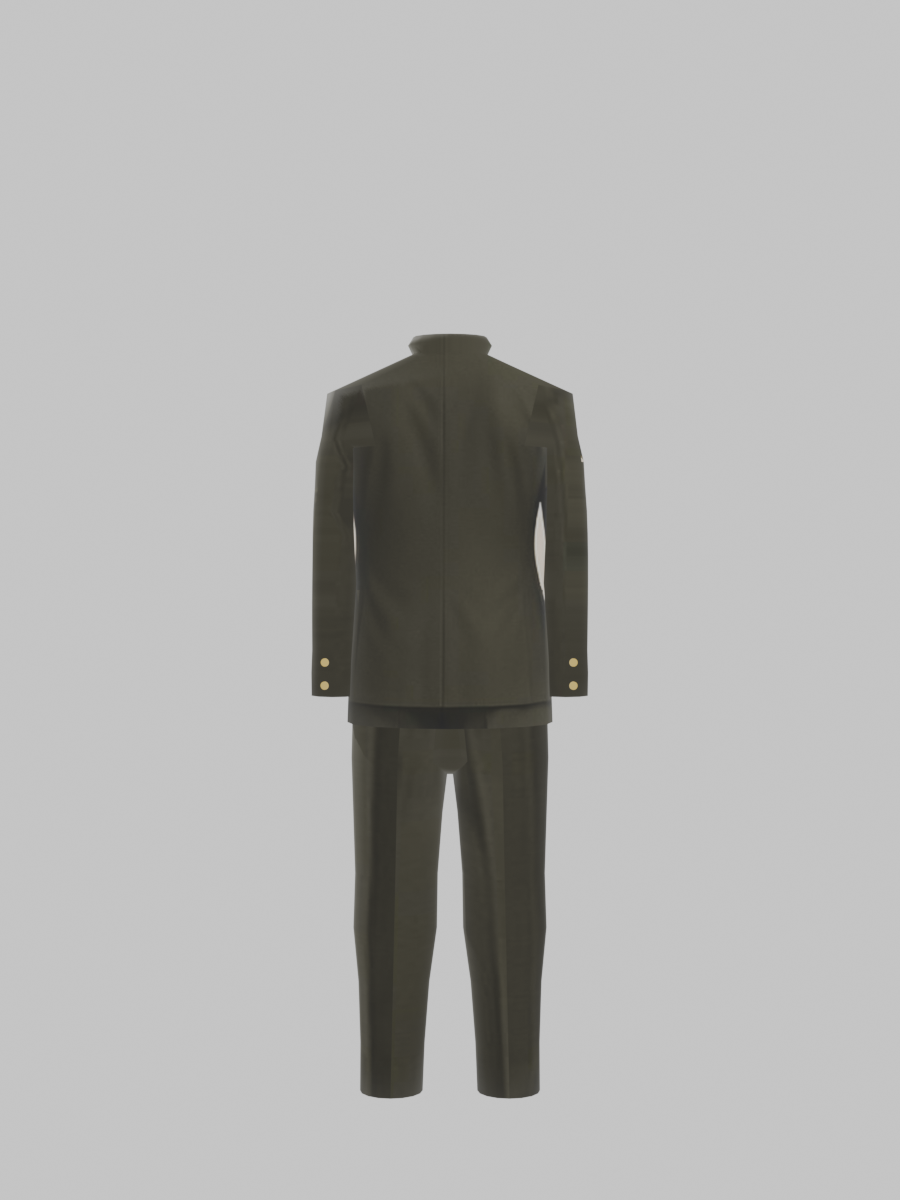
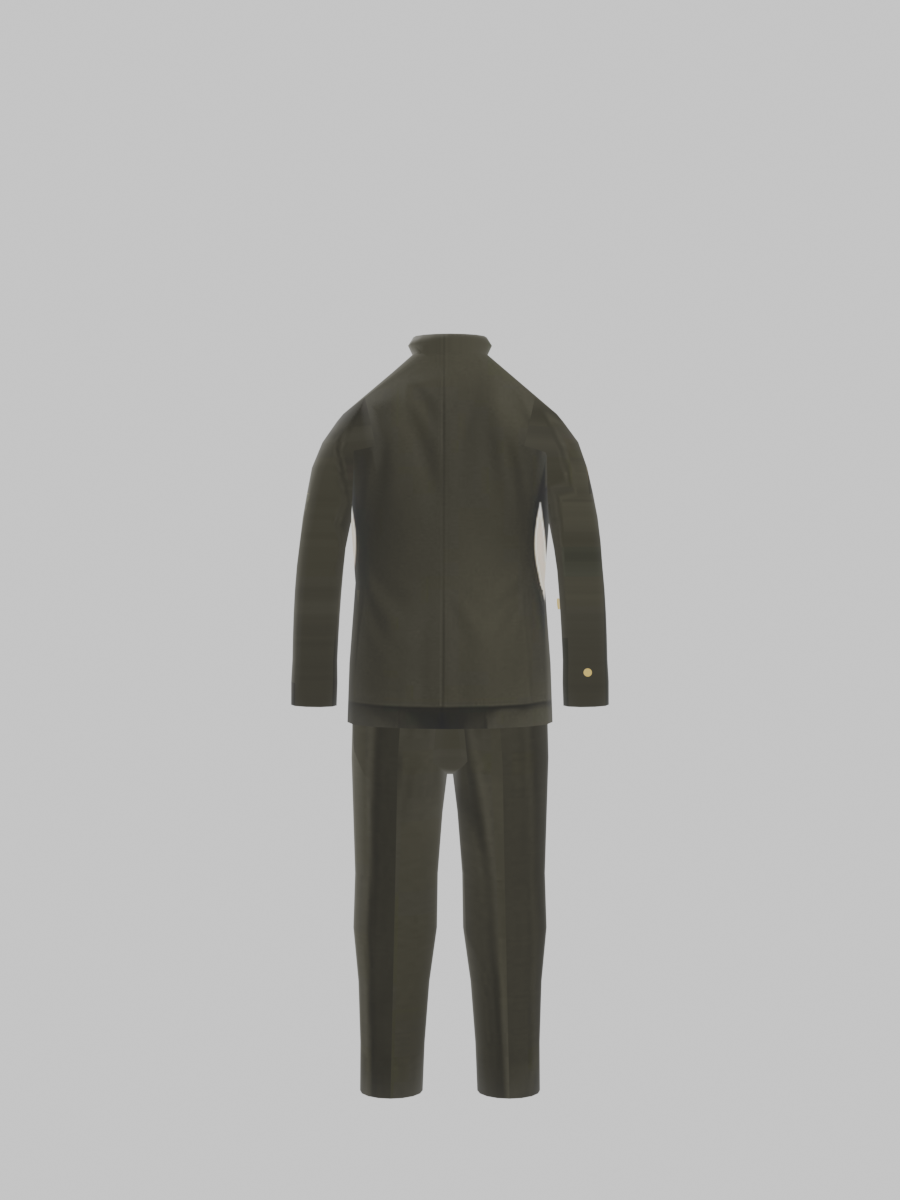
Abre los brazos del PONAL #3 y redondea el hombro para que no corte en escuadra.

Changed region(s): [[0.3111, 0.3083, 0.4356, 0.6167], [0.56, 0.3083, 0.6844, 0.5858], [0.4356, 0.2775, 0.4667, 0.3083]]

diff --git a/modelos/prueba/index.html b/modelos/prueba/index.html
@@ -21,34 +21,34 @@
   <main>
     <h1>PONAL #3, prueba</h1>
     <p>Arrastre el modelo para verlo por todos los lados. La primera imagen compara la fotografía con el frente, el lateral, la espalda y los tres cuartos.</p>
-    <model-viewer src="ponal-3.glb?v=5" camera-controls touch-action="pan-y" shadow-intensity="0.35" exposure="1.05" alt="Uniforme PONAL #3 de prueba"></model-viewer>
+    <model-viewer src="ponal-3.glb?v=6" camera-controls touch-action="pan-y" shadow-intensity="0.35" exposure="1.05" alt="Uniforme PONAL #3 de prueba"></model-viewer>
     <div class="vistas">
       <figure>
-        <img src="vistas/comparacion.png?v=5" alt="Comparación del uniforme PONAL #3 con la fotografía original">
+        <img src="vistas/comparacion.png?v=6" alt="Comparación del uniforme PONAL #3 con la fotografía original">
         <figcaption>Comparación con la fotografía</figcaption>
       </figure>
       <figure>
-        <img src="vistas/frente.png?v=5" alt="Frente del uniforme PONAL #3">
+        <img src="vistas/frente.png?v=6" alt="Frente del uniforme PONAL #3">
         <figcaption>Frente</figcaption>
       </figure>
       <figure>
-        <img src="vistas/espalda.png?v=5" alt="Espalda del uniforme PONAL #3">
+        <img src="vistas/espalda.png?v=6" alt="Espalda del uniforme PONAL #3">
         <figcaption>Espalda</figcaption>
       </figure>
       <figure>
-        <img src="vistas/perfil-izquierdo.png?v=5" alt="Perfil izquierdo del uniforme PONAL #3">
+        <img src="vistas/perfil-izquierdo.png?v=6" alt="Perfil izquierdo del uniforme PONAL #3">
         <figcaption>Perfil izquierdo</figcaption>
       </figure>
       <figure>
-        <img src="vistas/perfil-derecho.png?v=5" alt="Perfil derecho del uniforme PONAL #3">
+        <img src="vistas/perfil-derecho.png?v=6" alt="Perfil derecho del uniforme PONAL #3">
         <figcaption>Perfil derecho</figcaption>
       </figure>
       <figure>
-        <img src="vistas/tres-cuartos.png?v=5" alt="Tres cuartos izquierdo del uniforme PONAL #3">
+        <img src="vistas/tres-cuartos.png?v=6" alt="Tres cuartos izquierdo del uniforme PONAL #3">
         <figcaption>Tres cuartos izquierdo</figcaption>
       </figure>
       <figure>
-        <img src="vistas/tres-cuartos-derecho.png?v=5" alt="Tres cuartos derecho del uniforme PONAL #3">
+        <img src="vistas/tres-cuartos-derecho.png?v=6" alt="Tres cuartos derecho del uniforme PONAL #3">
         <figcaption>Tres cuartos derecho</figcaption>
       </figure>
     </div>

diff --git a/modelos/prueba/ponal3_uniforme.py b/modelos/prueba/ponal3_uniforme.py
@@ -242,10 +242,11 @@ def construir_manga(bm, lazo, signo):
     radio_puno = metros(MEDIDAS["manga_puno"]) / 2.0
 
     def centro_en(t):
-        # La sisa sigue pegada al hombro. El brazo se abre unos 4 cm.
-        afuera = signo * 0.042 * (1.0 - math.exp(-t * 5.0))
+        # La sisa queda en el hombro. El brazo se abre hasta dejar
+        # un hueco visible junto al torso, cerca de 9 cm en el puño.
+        afuera = signo * 0.09 * (1.0 - math.exp(-t * 3.5))
         x = origen.x + afuera
-        y = origen.y * (1.0 - t) - 0.008 * t
+        y = origen.y * (1.0 - t) - 0.006 * t
         return Vector((x, y, origen.z - largo * t))
 
     anillos = [lazo]
@@ -269,7 +270,7 @@ def construir_manga(bm, lazo, signo):
             else:
                 parte = 5 if al_frente else 6
             cara(bm, (a[i], a[j], b[j], b[i]), parte)
-    return centro_en(1.0).z
+    return centro_en(1.0)
 
 
 def mitad(clave):
@@ -298,7 +299,12 @@ def construir_chaqueta(bm):
     bajo_pecho = anillo(bm, N, pecho_x * 0.99, pecho_y * 1.04, pecho_z - 0.06, frente=0.03, espalda=0.032)
     pecho_a = anillo(bm, N, pecho_x, pecho_y * 1.08, pecho_z, frente=0.042, espalda=0.038)
     sisa_a = anillo(bm, N, pecho_x * 1.02, pecho_y, sisa_z, frente=0.018, espalda=0.026)
-    hombro_a = anillo(bm, N, hombro_x, pecho_y * 0.72, hombro_z, frente=0.008, caida=0.036)
+    hombro_a = anillo(bm, N, hombro_x, pecho_y * 0.72, hombro_z, frente=0.006, caida=0.0)
+    for vert in hombro_a:
+        lateral = min(1.0, abs(vert.co.x) / max(0.001, hombro_x))
+        curva = lateral ** 1.7
+        vert.co.z -= 0.09 * curva
+        vert.co.x *= 1.0 - 0.08 * (lateral ** 2)
     cuello_a = anillo(bm, N, cuello_r * 1.15, cuello_r, cuello_z)
     cuello_b = anillo(bm, N, cuello_r * 1.28, cuello_r * 1.05, cuello_z + 0.018)
     cuello_c = anillo(bm, N, cuello_r * 1.12, cuello_r * 0.95, cuello_z + 0.034)
@@ -315,9 +321,9 @@ def construir_chaqueta(bm):
         cara(bm, (cuello_a[i], cuello_a[j], cuello_b[j], cuello_b[i]), parte_tronco(i, j))
         cara(bm, (cuello_b[i], cuello_b[j], cuello_c[j], cuello_c[i]), parte_tronco(i, j))
 
-    puno_z = construir_manga(bm, lazo_sisa(hombro_a, sisa_a, SISA_DER), -1.0)
+    puno = construir_manga(bm, lazo_sisa(hombro_a, sisa_a, SISA_DER), -1.0)
     construir_manga(bm, lazo_sisa(hombro_a, sisa_a, SISA_IZQ), 1.0)
-    return {"bajo": bajo, "cuello": cuello_z, "hombro": hombro_x, "pecho": pecho_x, "puno_z": puno_z}
+    return {"bajo": bajo, "cuello": cuello_z, "hombro": hombro_x, "pecho": pecho_x, "puno_z": puno.z, "puno_x": abs(puno.x)}
 
 
 N_PIERNA = 16
@@ -686,7 +692,7 @@ def colocar_botones(ficha, chaqueta, chaqueta_obj):
     for indice, (px, py) in enumerate(espalda["botones_puno"]):
         lado = 1.0 if px < espalda["ancho"] / 2.0 else -1.0
         orden = indice % 3
-        ancla = superficie(chaqueta_obj, lado * (span + 0.05), base + 0.03 + orden * 0.022, 1.0)
+        ancla = superficie(chaqueta_obj, lado * chaqueta.get("puno_x", span + 0.05), base + 0.03 + orden * 0.022, 1.0)
         if ancla is None:
             print("puno sin tela", indice)
             continue
